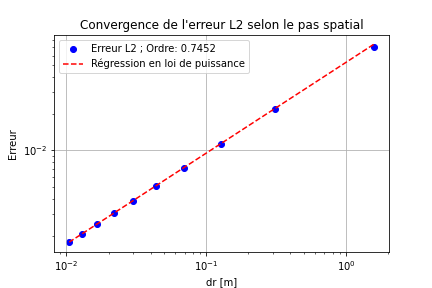
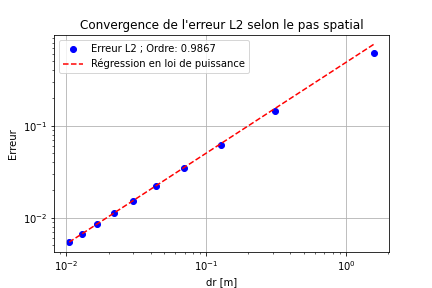
Corrections des erreurs

diff --git a/Projet_Final/src/MMS/main.py b/Projet_Final/src/MMS/main.py
@@ -58,11 +58,11 @@ def main():
     ### Analyse de l'effet des erreurs 
     # On fera un graphique de l'erreur relative sur les psis et sur la norme de la vitesse pour différents nombre de noeuds
     # pour faciliter l'analyse, on considèrera que nx = ny  
-    noeuds_err = range(5, 35, 5) # valeurs qu'on imposera aux noeuds 
+    noeuds_err = range(5,55, 5) # valeurs qu'on imposera aux noeuds 
     erreurs_psi, erreurs_vitesses = list(), list() 
-    errL1=[]
-    errL2=[]
-    errLinf=[]
+    errL1,errL2,errLinf=[],[],[]
+    errL1V,errL2V,errLinfV=[],[],[]
+    
     for nb_noeuds in noeuds_err: 
         print("Calculating ", nb_noeuds)
         prm.nx = nb_noeuds
@@ -82,75 +82,50 @@ def main():
         vitesses_mdf = np.sqrt(vr_mesh**2 + vtheta_mesh**2) # normes de la vitesse par mdf 
         
         # On evalue l'erreur 
-        erreur_relative_array = lambda arr_theo, arr_mdf: (np.average(abs(arr_theo-arr_mdf+1e-10)/(arr_theo+1e-10)))*100 # on perturbe de 1e-10 pour éviter /0
-        erreurs_psi.append(erreur_relative_array(psi_analytique_mesh, psi_mdf_mesh)) # erreur relative en %
-        erreurs_vitesses.append(erreur_relative_array(vitesses_ref, vitesses_mdf)) 
-        print("psi_analytique_mesh",psi_analytique_mesh)
-        print("psi_mdf_mesh",psi_mdf_mesh)
-        
+        # erreur_relative_array = lambda arr_theo, arr_mdf: (np.average(abs(arr_theo-arr_mdf+1e-10)/(arr_theo+1e-10)))*100 # on perturbe de 1e-10 pour éviter /0
+        # erreurs_psi.append(erreur_relative_array(psi_analytique_mesh, psi_mdf_mesh)) # erreur relative en %
+        # erreurs_vitesses.append(erreur_relative_array(vitesses_ref, vitesses_mdf)) 
+        # # On evalue l'erreur nouvelle methode
         domaine = [i for i in range(prm.nx)]
         errL1.append(erreur_L1(domaine, psi_mdf_mesh, psi_analytique_mesh))
         errL2.append(erreur_L2(domaine, psi_mdf_mesh, psi_analytique_mesh))
         errLinf.append(erreur_Linf(domaine, psi_mdf_mesh, psi_analytique_mesh))
         
-    erreurs=[errL1,errL2,errLinf]
-    # Faisons le graphique 
-    fig, axs = plt.subplots(2,1) 
-    ax1, ax2 = axs[0], axs[1]
+        errL1V.append(erreur_L1(domaine, vitesses_mdf, vitesses_ref))
+        errL2V.append(erreur_L2(domaine, vitesses_mdf, vitesses_ref))
+        errLinfV.append(erreur_Linf(domaine, vitesses_mdf, vitesses_ref))
     
-    ax1.plot(noeuds_err, erreurs_psi, '.-g', label="Erreur sur $\psi$") 
-    ax2.plot(noeuds_err, erreurs_vitesses, '.-b', label="Erreur sur la vitesse") 
-
-    ax1.set_title(r"Erreur relative sur $\psi$ et les vitesses selon la taille du maillage")
-    ax1.set_ylabel(r"Erreur relative par rapport à la solution analytique[%]")
-    ax1.grid(True) 
-    ax1.legend() 
-
-    ax2.set_xlabel(r"Nombre de noeuds sur le bord $nx=ny$")
-    ax2.set_ylabel(r"Erreur relative par rapport à la solution analytique[%]")
-    ax2.grid(True) 
-    ax2.legend()    
-    plt.show() 
+   # # Faisons le graphique 
+   #  fig, axs = plt.subplots(2,1) 
+   #  ax1, ax2 = axs[0], axs[1]
     
-    # Maintenant faisons un graphique log log pour vérifier l'ordre de convergence 
-    fig, axs = plt.subplots(2,1) 
-    ax1, ax2 = axs[0], axs[1]
-    ax1.plot(noeuds_err, erreurs_psi, '.-g', label="Erreur sur $\psi$") 
-    ax2.plot(noeuds_err, erreurs_vitesses, '.-b', label="Erreur sur la vitesse") 
+   #  ax1.plot(noeuds_err, erreurs_psi, '.-g', label="Erreur sur $\psi$") 
+   #  ax2.plot(noeuds_err, erreurs_vitesses, '.-b', label="Erreur sur la vitesse") 
 
-    ax1.set_title(r"Erreur relative sur $\psi$ et les vitesses selon la taille du maillage")
-    ax1.set_ylabel(r"Erreur relative par rapport à la solution analytique[%]")
-    ax1.grid(True) 
-    ax1.legend() 
+   #  ax1.set_title(r"Erreur relative sur $\psi$ et les vitesses selon la taille du maillage")
+   #  ax1.set_ylabel(r"Erreur relative par rapport à la solution analytique[%]")
+   #  ax1.grid(True) 
+   #  ax1.legend() 
 
-    ax2.set_xlabel(r"Nombre de noeuds sur le bord $nx=ny$")
-    ax2.set_ylabel(r"Erreur relative par rapport à la solution analytique[%]")
-    ax2.grid(True) 
-    ax2.legend()    
-
-    ax1.set_yscale("log") 
-    ax1.set_xscale("log")
-    ax2.set_yscale("log")
-    ax2.set_xscale("log")
-    noeuds_log = np.log(noeuds_err) 
-    erreurs_psi_log = np.log(erreurs_psi)
-    erreurs_vitesses_log = np.log(erreurs_vitesses)  
-    print(f"Pente du graphique log log (ordre de l'erreur): {np.polyfit(noeuds_log, erreurs_psi_log, 1)[0]:.0f}")
-    print(f"Pente du graphique log log (ordre de l'erreur): {np.polyfit(noeuds_log, erreurs_vitesses_log, 1)[0]:.0f}")
-    plt.show() 
+   #  ax2.set_xlabel(r"Nombre de noeuds sur le bord $nx=ny$")
+   #  ax2.set_ylabel(r"Erreur relative par rapport à la solution analytique[%]")
+   #  ax2.grid(True) 
+   #  ax2.legend()    
+   #  plt.show() 
     
     #Graphiques de l'erreur
-    
+    erreurs=[errL1,errL2,errLinf]
+    erreursV=[errL1V,errL2V,errLinfV]
     r_min, r_max, theta_min, theta_max = prm.R, prm.R_ext, prm.theta_min, prm .theta_max
     
-    dr = lambda nx: abs(r_max-r_min)/(nx-1)
-    dtheta = lambda ny: abs(theta_max-theta_min)/(ny-1)
-    tab=np.array([dr(i)*dtheta(i) for i in noeuds_err])
+    #dr = lambda nx: abs(r_max-r_min)/(nx-1)
+    #dtheta = lambda ny: abs(theta_max-theta_min)/(ny-1)
+    tab=[10/i for i in range(5,55, 5)]
+    #tab=np.array([dr(i)*dtheta(i) for i in noeuds_err])
     print(tab)
-
-    #erreurs=[np.array(erreurs_vitesses),np.array(erreurs_psi)]
    
-    graphique_convergence_erreurs(tab,erreurs,'dr')
+    graphique_convergence_erreurs(tab,erreurs,'psi')
+    graphique_convergence_erreurs(tab,erreursV,'vitesse')
     
 if __name__=="__main__": 
     main() 

diff --git a/Projet_Final/src/main.py b/Projet_Final/src/main.py
@@ -57,10 +57,10 @@ def main():
     ### Analyse de l'effet des erreurs 
     # On fera un graphique de l'erreur relative sur les psis et sur la norme de la vitesse pour différents nombre de noeuds
     # pour faciliter l'analyse, on considèrera que nx = ny  
-    noeuds_err = range(5, 55, 5) # valeurs qu'on imposera aux noeuds 
+    noeuds_err = range(5,55, 5) # valeurs qu'on imposera aux noeuds 
     erreurs_psi, erreurs_vitesses = list(), list() 
     errL1,errL2,errLinf=[],[],[]
-    
+    errL1V,errL2V,errLinfV=[],[],[]
     
     for nb_noeuds in noeuds_err: 
         print("Calculating ", nb_noeuds)
@@ -89,6 +89,10 @@ def main():
         errL1.append(erreur_L1(domaine, psi_mdf_mesh, psi_analytique_mesh))
         errL2.append(erreur_L2(domaine, psi_mdf_mesh, psi_analytique_mesh))
         errLinf.append(erreur_Linf(domaine, psi_mdf_mesh, psi_analytique_mesh))
+        
+        errL1V.append(erreur_L1(domaine, vitesses_mdf, vitesses_ref))
+        errL2V.append(erreur_L2(domaine, vitesses_mdf, vitesses_ref))
+        errLinfV.append(erreur_Linf(domaine, vitesses_mdf, vitesses_ref))
     
    # # Faisons le graphique 
    #  fig, axs = plt.subplots(2,1) 
@@ -110,15 +114,19 @@ def main():
     
     #Graphiques de l'erreur
     erreurs=[errL1,errL2,errLinf]
+    erreursV=[errL1V,errL2V,errLinfV]
     r_min, r_max, theta_min, theta_max = prm.R, prm.R_ext, prm.theta_min, prm .theta_max
     
-    dr = lambda nx: abs(r_max-r_min)/(nx-1)
-    dtheta = lambda ny: abs(theta_max-theta_min)/(ny-1)
-    tab=np.array([dr(i)*dtheta(i) for i in noeuds_err])
+    #dr = lambda nx: abs(r_max-r_min)/(nx-1)
+    #dtheta = lambda ny: abs(theta_max-theta_min)/(ny-1)
+    tab=[10/i for i in range(5,55, 5)]
+    #tab=np.array([dr(i)*dtheta(i) for i in noeuds_err])
     print(tab)
    
-    graphique_convergence_erreurs(tab,erreurs,'dr')
+    graphique_convergence_erreurs(tab,erreurs,'psi')
+    graphique_convergence_erreurs(tab,erreursV,'vitesse')
    
+    
 def propagation():
     ### Résolution du problème avec paramètres initaux 
     prm = Parametres()
@@ -127,11 +135,11 @@ def propagation():
     errL2=[]
     errLinf=[]
     nb_noeuds=25
-    rayons=[2.0231333123933544, 2.1501147686017514, 2.6180125908349163, 1.4993313856327224, 2.269093789712684, 4.157846502182325, 1.616644476288664, 2.246662270928322, 1.9074518519229011, 1.5413922316137434, 1.6668577303555203, 1.6191002686384126, 2.346189700771556, 1.2638109736007561, 1.9825601523707768, 1.5629003497264278, 2.092999972866811, 2.292374944563457, 1.9593470670702164, 1.5654272765937725, 1.7783825323272433, 2.0719612396753733, 1.8273061377206163, 1.3873159052083692, 1.9583660726271934, 1.4234258184742314, 1.655274147749532, 1.5110464445229965, 2.6940702299651127, 2.217622905390624, 1.604940267270745, 2.1506511987267087, 1.361019892370793, 1.6779654136867348, 1.581163965836162, 1.991149308132889, 1.928485359689747, 1.4390761241122612, 2.347838618833941, 2.1479306335961446, 2.001867405341038, 4.153517819236928, 1.5014329172594065, 2.129073306072839, 1.9661342728452769, 2.5898396884865456, 3.005929567717712, 1.7071871276949184, 2.17804212938698, 1.7237214433128836, 1.455085777263597, 3.0296242115135765, 1.6516964673450678, 2.279817304651554, 3.1803767966455236, 1.4520865987917615, 3.154855230504548, 2.0795599521331725, 1.5731719534248194, 2.3602007850556275, 1.7984601799615474, 2.502329222581122, 1.581570417321334, 1.7671459009972545, 1.6742796201758097, 1.8783540764248277, 2.0316838400560684, 2.0643657967510816, 2.539425611213262, 1.9239864793330868, 2.075767890430878, 1.9670268601069965, 1.7932132470474427, 2.3641822288581515, 2.1776634444180134, 2.1300522423617787, 1.7948060061943316, 2.9371645976313188, 1.6157448517518804, 1.565541549155506, 2.116553814330181, 2.207368301628568, 3.292790971598566, 2.4826638849113216, 1.5978263707335998, 1.6866958863295172, 1.6874273423156674, 2.32975924006728, 1.7499048067768326, 1.8420862035496277, 1.6040407479362908, 2.1248677572729293, 1.2389849217698106, 2.3667264375363994, 2.036781697013902, 2.1426316664840694, 2.2546876118047514, 1.9165839757884437, 1.3877151749379961, 1.987476254410119]
+    rayons=[2.0231333123933544, 2.1501147686017514, 2.6180125908349163, 1.4993313856327224, 2.269093789712684, 4.157846502182325, 1.616644476288664, 2.246662270928322, 1.9074518519229011, 1.5413922316137434, 1.6668577303555203, 1.6191002686384126, 2.346189700771556, 1.2638109736007561, 1.9825601523707768, 1.5629003497264278, 2.092999972866811, 2.292374944563457, 1.9593470670702164, 1.5654272765937725, 1.7783825323272433, 2.0719612396753733, 1.8273061377206163, 1.3873159052083692, 1.9583660726271934, 1.4234258184742314, 1.655274147749532, 1.5110464445229965, 2.6940702299651127, 2.217622905390624, 1.604940267270745, 2.1506511987267087, 1.361019892370793, 1.6779654136867348, 1.581163965836162, 1.991149308132889, 1.928485359689747, 1.4390761241122612, 2.347838618833941, 2.1479306335961446, 2.001867405341038, 4.153517819236928, 1.5014329172594065, 2.129073306072839, 1.9661342728452769, 2.5898396884865456, 3.005929567717712, 1.7071871276949184, 2.17804212938698, 1.7237214433128836, 1.455085777263597, 3.0296242115135765, 1.6516964673450678, 2.279817304651554, 3.1803767966455236, 1.4520865987917615, 3.154855230504548, 2.0795599521331725, 1.5731719534248194, 2.3602007850556275]
     Resultats=[]
     for rayon in rayons: 
-        prm.R=rayon
-        print("Calculating for r = ", rayon)
+        prm.u_inf=rayon
+        print("Calculating for u_inf = ", rayon)
         prm.nx = nb_noeuds
         prm.ny = nb_noeuds
 
@@ -180,5 +188,6 @@ def propagation():
     plt.show()
     
 if __name__=="__main__": 
+    #propagation()
     main()
     

diff --git a/Projet_Final/src/MMS/graphique_convergence.py b/Projet_Final/src/MMS/graphique_convergence.py
@@ -75,7 +75,7 @@ def erreur_Linf(domaine, results_numerique, results_analytique):
     erreur = np.average(abs(results_numerique - results_analytique)) # car results numérique est sous forme colonne et analytique sous forme ligne 
     return np.amax(erreur)
 
-def graphique_convergence_erreurs(delta_vals:list, erreurs:list, type_delta:str):
+def graphique_convergence_erreurs(delta_vals:list, erreurs:list, type_res:str):
     """
     Affiche un graphique de l'évolution de l'erreur en fonction de dt ou de dr.
 
@@ -85,13 +85,13 @@ def graphique_convergence_erreurs(delta_vals:list, erreurs:list, type_delta:str)
         Liste des valeurs de dt ou dr.
     erreurs : list of lists
         Liste des erreurs L1, L2, et Linf.
-    type_delta : 'dt' ou 'dr' 
+    type_res : psi ou la vitesse 
 
     Returns
     -------
     None
     """
-    print(f"***Ordre de convergence {'SPATIAL' if type_delta=='dr' else 'TEMPOREL'} observé***")
+    print("*****Ordre de convergence observé*****")
     for i, erreur in enumerate(erreurs): 
         j = 'inf' if i==2 else str(i+1) 
         coeffs = np.polyfit(np.log(delta_vals[-3:]), np.log(erreur[-3:]), 1)
@@ -109,16 +109,11 @@ def graphique_convergence_erreurs(delta_vals:list, erreurs:list, type_delta:str)
         plt.grid(True)
         plt.yscale('log')
         plt.xscale('log')
-        if type_delta=="dr":
-            plt.ylabel('Erreur ')
-            plt.xlabel('dr [m]')
-            plt.title(f"Convergence de l'erreur L{j} selon le pas spatial")
-        elif type_delta=="dt":
-            plt.ylabel('Erreur ')
-            plt.xlabel('dt [s]')
-            plt.title(f"Convergence de l'erreur L{j} selon le pas de temps")
-        else:
-            print("type delta in graphique_convergence_erreurs not valid")
-            return 
-        plt.savefig(f'Convergence_de_l-erreur_L{j}.png')
+        
+        plt.ylabel('Erreur ')
+        plt.xlabel('dr [m]')
+        titre=f"Convergence de l'erreur L{j} pour "
+        plt.title(titre+type_res)
+        figu=f'Convergence_de_l-erreur_L{j}_'
+        plt.savefig(figu+type_res+'.png')
         plt.show() 
